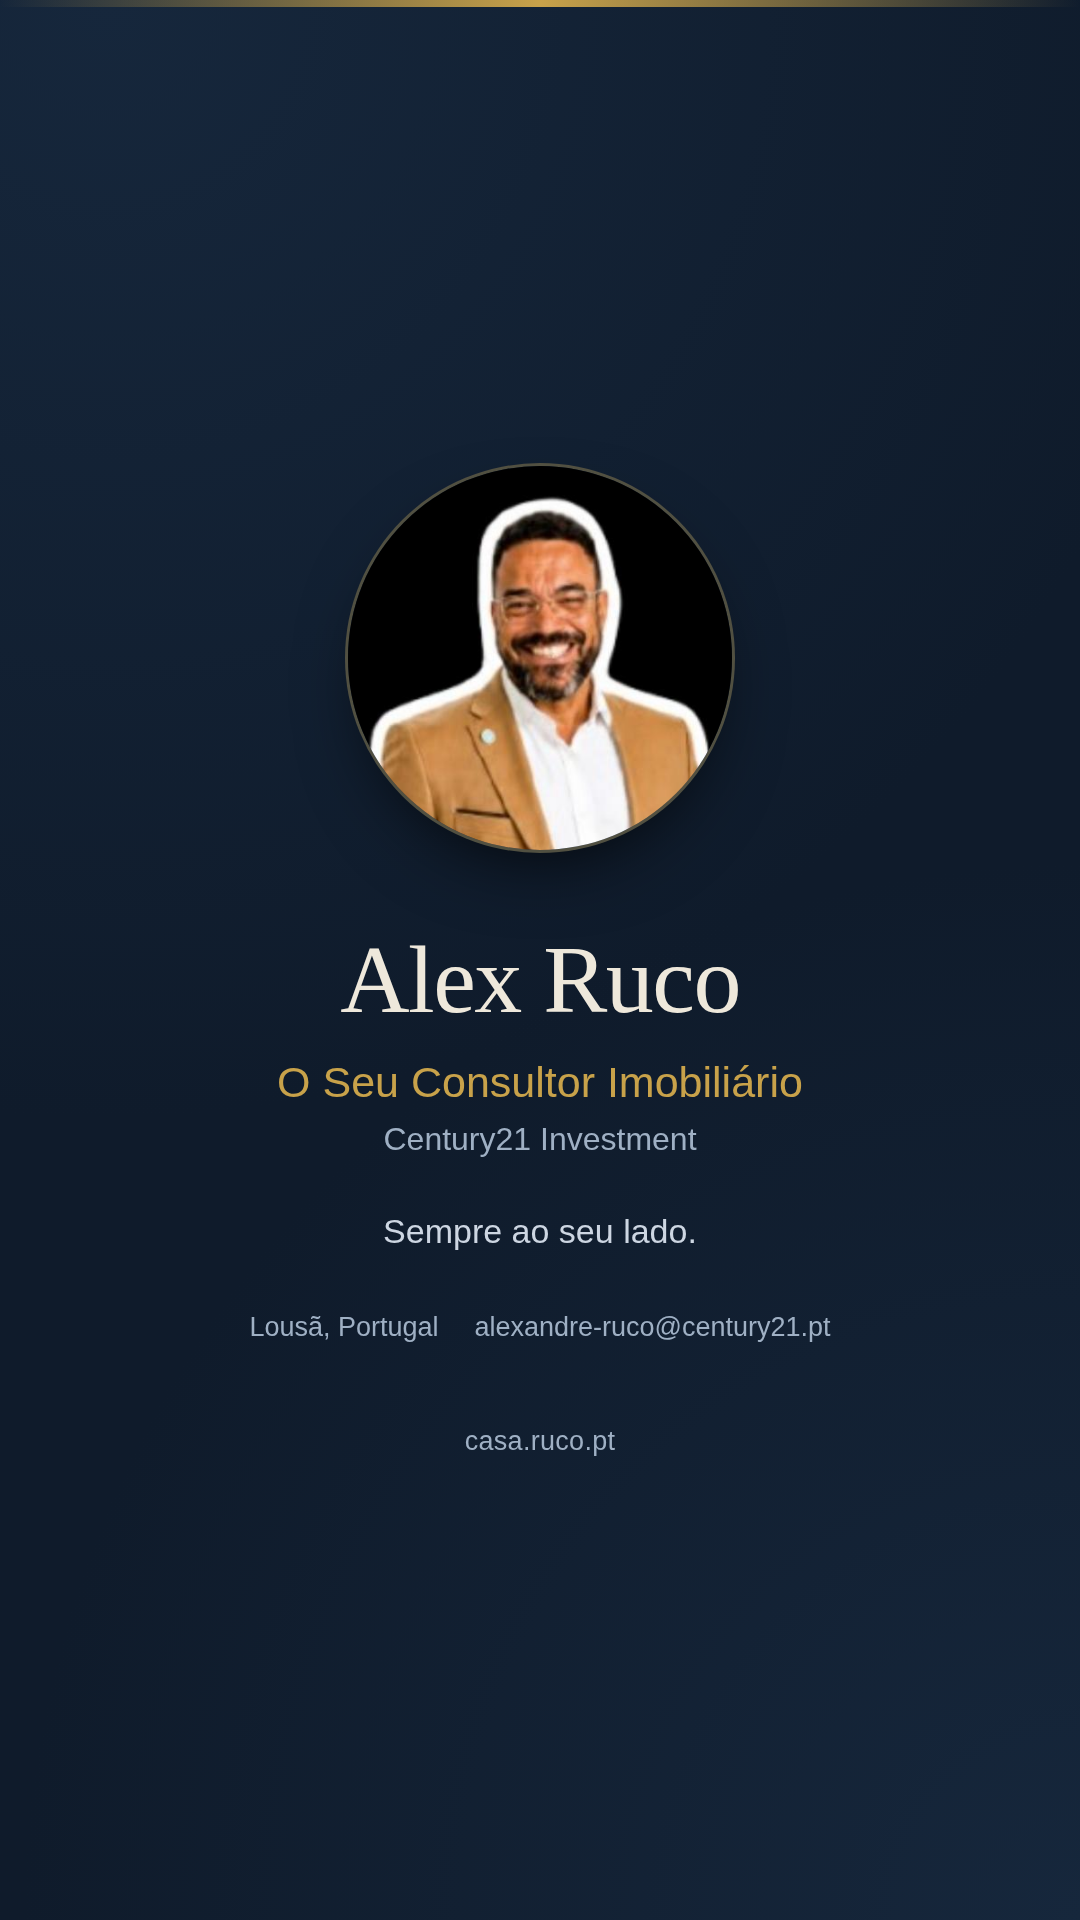
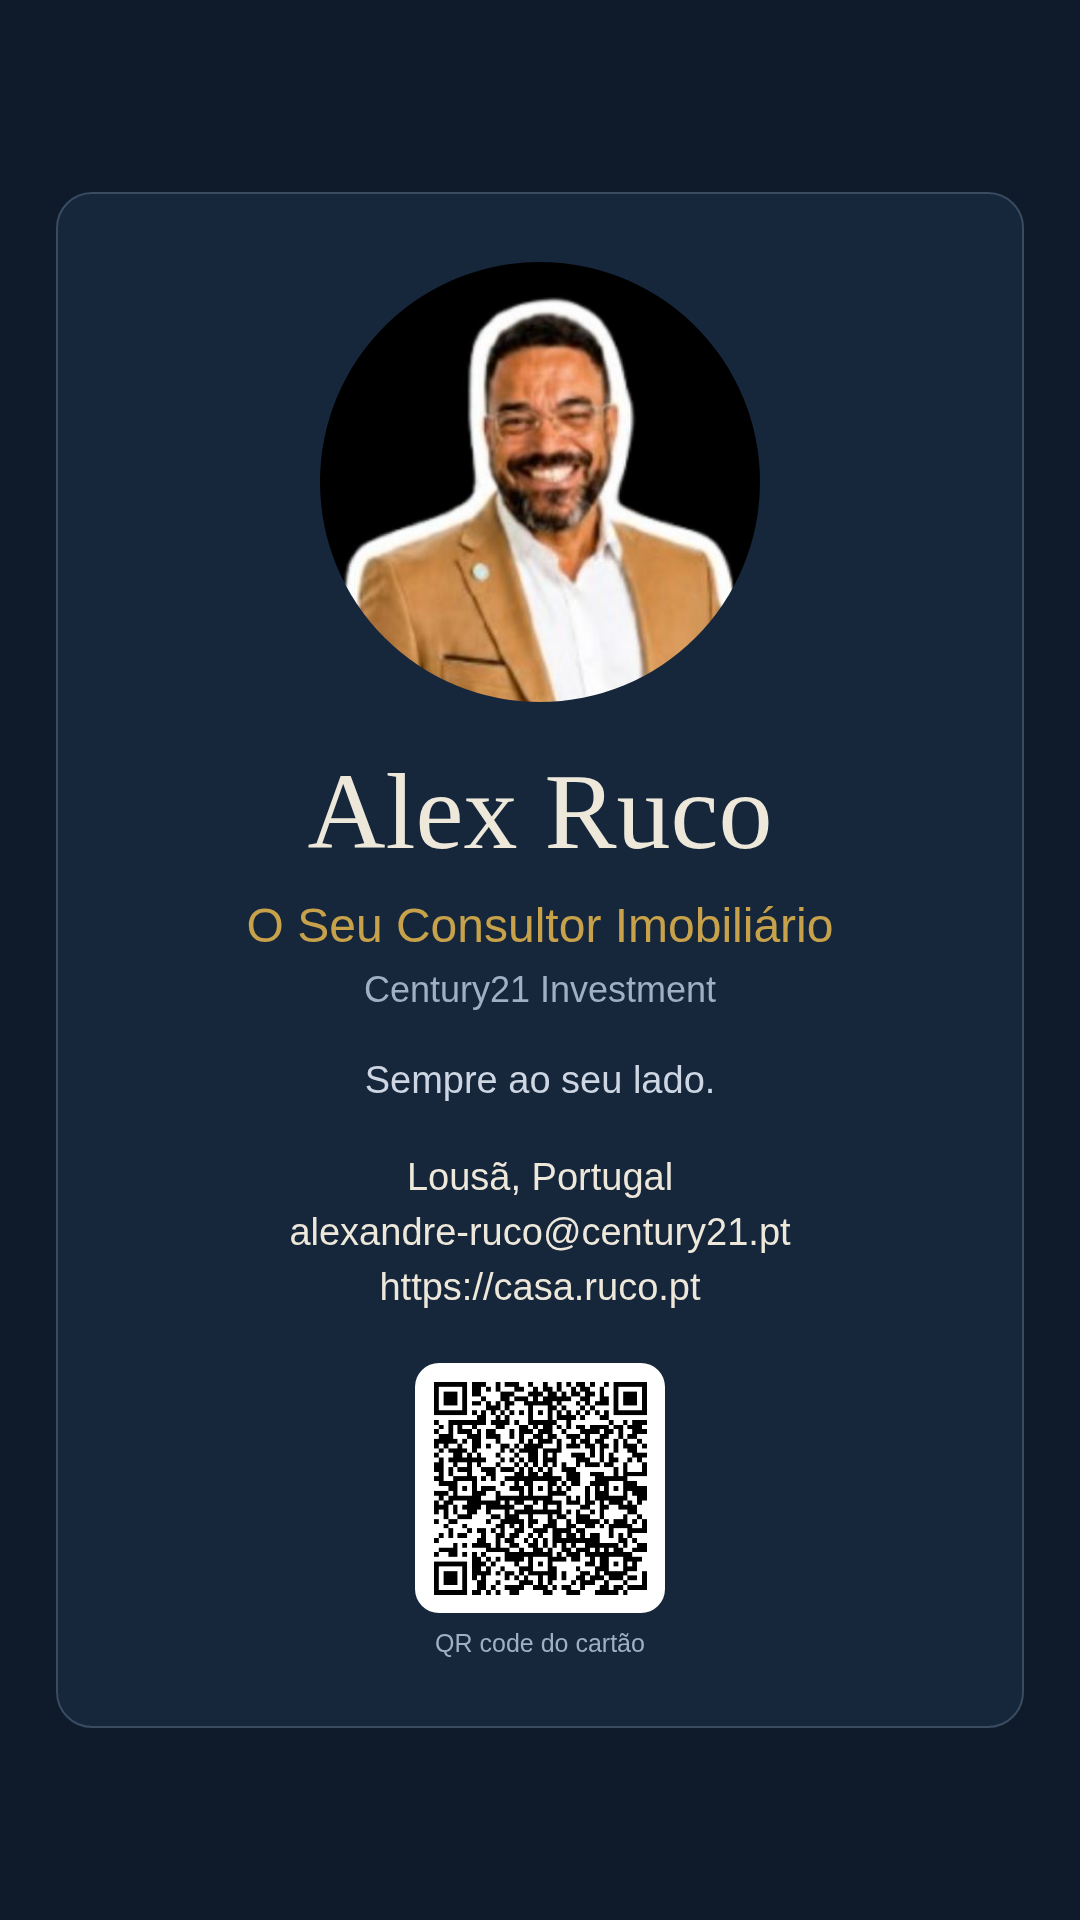
utm

diff --git a/social-card.html b/social-card.html
@@ -1,95 +1,1 @@
-<!DOCTYPE html>
-<html lang="pt-PT">
-<head>
-<meta charset="UTF-8">
-<meta name="viewport" content="width=device-width, initial-scale=1.0">
-<meta name="robots" content="noindex, nofollow">
-<title>Social card</title>
-<style>
-  *{box-sizing:border-box}
-  html,body{width:100%;height:100%;margin:0;overflow:hidden}
-  body{
-    background:var(--bg);
-    background-image:
-      radial-gradient(circle at 10% 0%,var(--bg2) 0%,transparent 52%),
-      radial-gradient(circle at 100% 100%,var(--bg2) 0%,transparent 48%);
-    color:var(--paper);
-    font-family:-apple-system,BlinkMacSystemFont,"Segoe UI",sans-serif;
-  }
-  #social-card{width:100%;height:100%}
-  .social-card{
-    width:100%;height:100%;padding:58px 72px;
-    display:grid;grid-template-columns:360px minmax(0,1fr);gap:70px;align-items:center;
-    position:relative;
-  }
-  .social-card::before{
-    content:"";position:absolute;top:0;left:0;right:0;height:7px;
-    background:linear-gradient(90deg,transparent,var(--accent),transparent);
-  }
-  .portrait{
-    width:340px;height:340px;border-radius:50%;overflow:hidden;
-    display:flex;align-items:center;justify-content:center;
-    border:3px solid var(--accent-dim);background:var(--bg2);
-    color:var(--accent);font:92px Georgia,"Times New Roman",serif;
-    box-shadow:0 30px 80px -36px #000;
-  }
-  .portrait img{width:100%;height:100%;object-fit:cover}
-  .content{min-width:0}
-  .name{font:72px/1.02 Georgia,"Times New Roman",serif;margin:0 0 15px;letter-spacing:-1.5px}
-  .role{font-size:30px;line-height:1.18;color:var(--accent);margin:0 0 9px}
-  .company{font-size:23px;color:var(--text-dim);margin:0 0 30px}
-  .bio{font-size:25px;line-height:1.42;color:var(--text-dim2);margin:0 0 34px;max-width:36ch}
-  .details{display:flex;flex-wrap:wrap;gap:12px 26px;font-size:20px;color:var(--text-dim)}
-  .details span{white-space:nowrap}
-  .website{position:absolute;right:72px;bottom:40px;font-size:18px;color:var(--text-dim);letter-spacing:.3px}
-
-  @media (max-aspect-ratio:1/1){
-    .social-card{padding:120px 84px;display:flex;flex-direction:column;justify-content:center;gap:78px;text-align:center}
-    .portrait{width:390px;height:390px;font-size:112px}
-    .name{font-size:96px;margin-bottom:28px}
-    .role{font-size:43px;margin-bottom:14px}
-    .company{font-size:32px;margin-bottom:48px}
-    .bio{font-size:34px;line-height:1.5;margin:0 auto 55px;max-width:27ch}
-    .details{justify-content:center;gap:20px 36px;font-size:27px}
-    .website{position:static;margin-top:5px;font-size:27px}
-  }
-</style>
-</head>
-<body>
-<main id="social-card" aria-label="Social sharing card"></main>
-<script>
-const escapeHtml=value=>String(value??"").replace(/[&<>"']/g,char=>({"&":"&amp;","<":"&lt;",">":"&gt;",'"':"&quot;","'":"&#39;"})[char]);
-async function render(){
-  const response=await fetch("data.json",{cache:"no-store"});
-  if(!response.ok)throw new Error(`HTTP ${response.status}`);
-  const data=await response.json();
-  const {profile,palette,ui}=data;
-  document.documentElement.lang=ui.language||"pt";
-  const root=document.documentElement.style;
-  root.setProperty("--bg",palette.bg);root.setProperty("--bg2",palette.bg2);
-  root.setProperty("--paper",palette.paper);root.setProperty("--text-dim",palette.textDim);
-  root.setProperty("--text-dim2",palette.textDim2);root.setProperty("--accent",palette.accent);
-  root.setProperty("--accent-dim",palette.accentDim);
-  const fullName=`${profile.firstName} ${profile.lastName}`;
-  const website=(ui.canonicalUrl||profile.website||"").replace(/^https?:\/\//,"").replace(/\/$/,"");
-  document.getElementById("social-card").innerHTML=`
-    <section class="social-card">
-      <div class="portrait">${profile.photoUrl?`<img src="${escapeHtml(profile.photoUrl)}" alt="">`:escapeHtml(profile.photoInitials)}</div>
-      <div class="content">
-        <h1 class="name">${escapeHtml(fullName)}</h1>
-        ${profile.title?`<p class="role">${escapeHtml(profile.title)}</p>`:""}
-        ${profile.company?`<p class="company">${escapeHtml(profile.company)}</p>`:""}
-        ${profile.bio?`<p class="bio">${escapeHtml(profile.bio)}</p>`:""}
-        <div class="details">
-          ${profile.address?`<span>${escapeHtml(profile.address)}</span>`:""}
-          ${profile.email?`<span>${escapeHtml(profile.email)}</span>`:""}
-        </div>
-      </div>
-      ${website?`<div class="website">${escapeHtml(website)}</div>`:""}
-    </section>`;
-  document.documentElement.dataset.rendered="true";
-}
-render().catch(error=>{console.error(error);document.documentElement.dataset.rendered="error"});
-</script>
-</body>
-</html>
[1 lines of base64/hex data omitted]

diff --git a/index.html b/index.html
@@ -3,22 +3,7 @@
 <head>
 <meta charset="UTF-8">
 <meta name="viewport" content="width=device-width, initial-scale=1.0">
-<title>Alex Ruco</title>
-<meta name="description" content="Alex Ruco: O Seu Consultor Imobiliário / Century21 Investment &amp; Lousã, Portugal">
-<meta property="og:type" content="profile">
-<meta property="og:title" content="Alex Ruco">
-<meta property="og:description" content="Alex Ruco: O Seu Consultor Imobiliário / Century21 Investment &amp; Lousã, Portugal">
-<meta name="twitter:card" content="summary_large_image">
-<link rel="canonical" href="https://casa.ruco.pt/">
-<meta property="og:url" content="https://casa.ruco.pt/">
-<meta property="og:image" content="https://casa.ruco.pt/assets/og-image.png">
-<meta property="og:image:type" content="image/png">
-<meta property="og:image:width" content="1200">
-<meta property="og:image:height" content="630">
-<meta property="og:image:alt" content="Cartão digital de Alex Ruco">
-<meta name="twitter:image" content="https://casa.ruco.pt/assets/og-image.png">
-<meta name="twitter:image:alt" content="Cartão digital de Alex Ruco">
-<script type="application/ld+json">{"@context":"https://schema.org","@type":"Person","name":"Alex Ruco","jobTitle":"O Seu Consultor Imobiliário","worksFor":{"@type":"Organization","name":"Century21 Investment"},"url":"https://casa.ruco.pt","image":"https://casa.ruco.pt/assets/profile.jpeg","email":"alexandre-ruco@century21.pt","telephone":"+351927734057","address":{"@type":"PostalAddress","addressLocality":"Lousã, Portugal"},"sameAs":["https://linkedin.com/in/alexandreruco","https://instagram.com/casa.ruco.pt","https://www.facebook.com/alexandrerucoC21","https://wa.me/351927734057","https://alex-ruco/century21.pt"]}</script>
+<title>Alex Ruco</title><meta name="description" content="Alex Ruco: O Seu Consultor Imobiliário / Century21 Investment &amp; Lousã, Portugal"><link rel="canonical" href="https://casa.ruco.pt/"><meta property="og:type" content="profile"><meta property="og:title" content="Alex Ruco"><meta property="og:description" content="Alex Ruco: O Seu Consultor Imobiliário / Century21 Investment &amp; Lousã, Portugal"><meta property="og:url" content="https://casa.ruco.pt/"><meta property="og:image" content="https://casa.ruco.pt/assets/og-image-d884191cd1aa65df.png"><meta property="og:image:type" content="image/png"><meta property="og:image:width" content="1200"><meta property="og:image:height" content="630"><meta property="og:image:alt" content="Cartão digital de Alex Ruco"><meta name="twitter:card" content="summary_large_image"><meta name="twitter:title" content="Alex Ruco"><meta name="twitter:description" content="Alex Ruco: O Seu Consultor Imobiliário / Century21 Investment &amp; Lousã, Portugal"><meta name="twitter:image" content="https://casa.ruco.pt/assets/og-image-d884191cd1aa65df.png"><meta name="twitter:image:alt" content="Cartão digital de Alex Ruco"><script type="application/ld+json">{"@context":"https://schema.org","@type":"Person","name":"Alex Ruco","jobTitle":"O Seu Consultor Imobiliário","worksFor":{"@type":"Organization","name":"Century21 Investment"},"url":"https://casa.ruco.pt","image":"https://casa.ruco.pt/assets/profile.jpeg","email":"alexandre-ruco@century21.pt","telephone":"+351927734057","address":{"@type":"PostalAddress","addressLocality":"Lousã, Portugal"},"sameAs":["https://linkedin.com/in/alexandreruco","https://instagram.com/casa.ruco.pt","https://www.facebook.com/alexandrerucoC21","https://wa.me/351927734057","https://alex-ruco/century21.pt"]}</script>
 
 <!-- Font Awesome (ícones gratuitos, via CDN) -->
 <link rel="stylesheet" href="https://cdnjs.cloudflare.com/ajax/libs/font-awesome/6.5.2/css/all.min.css">
@@ -190,7 +175,7 @@ async function init(){
     if(a.type === "vcard") return vcardUrl;
     if(a.type === "tel") return `tel:${a.value}`;
     if(a.type === "email") return `mailto:${a.value}`;
-    return a.url || a.value || "#";
+    return a.trackingUrl || a.url || a.value || "#";
   }
 
   function renderActions(items){
@@ -207,7 +192,7 @@ async function init(){
   const primaryActionsHtml = renderActions(enabledActions.filter(a => a.primary));
 
   const socialsHtml = (socials || []).filter(s => s.enabled !== false).map(s => `
-    <a href="${s.url}" target="_blank" rel="noopener" title="${s.label}">
+    <a href="${s.trackingUrl || s.url}" target="_blank" rel="noopener" title="${s.label}">
       <i class="${s.icon}"></i>
     </a>`).join("");
 
@@ -225,7 +210,8 @@ async function init(){
   }
 
   const pageUrl = ui.canonicalUrl || window.location.href.split("#")[0].replace(/index\.html?$/, "");
-  const qrSrc = `https://api.qrserver.com/v1/create-qr-code/?size=160x160&data=${encodeURIComponent(pageUrl)}`;
+  const qrTarget = ui.qrPageUrl || pageUrl;
+  const qrSrc = ui.pageQrCodeDataUrl || `https://api.qrserver.com/v1/create-qr-code/?size=160x160&data=${encodeURIComponent(qrTarget)}`;
 
   app.innerHTML = `
     <div class="card">
